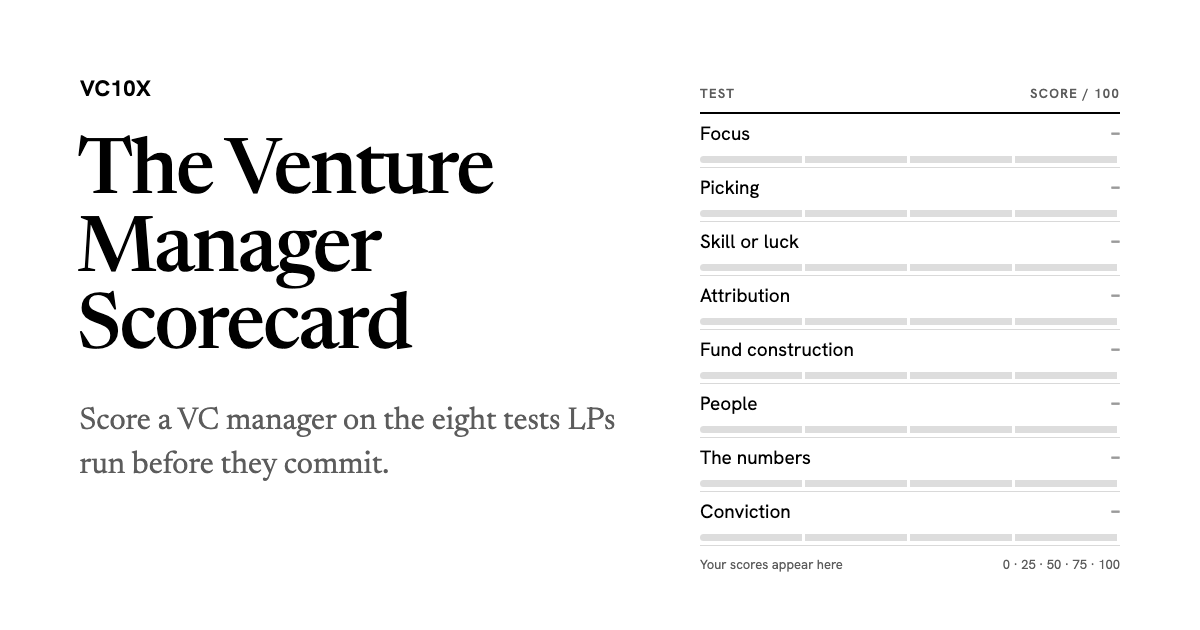
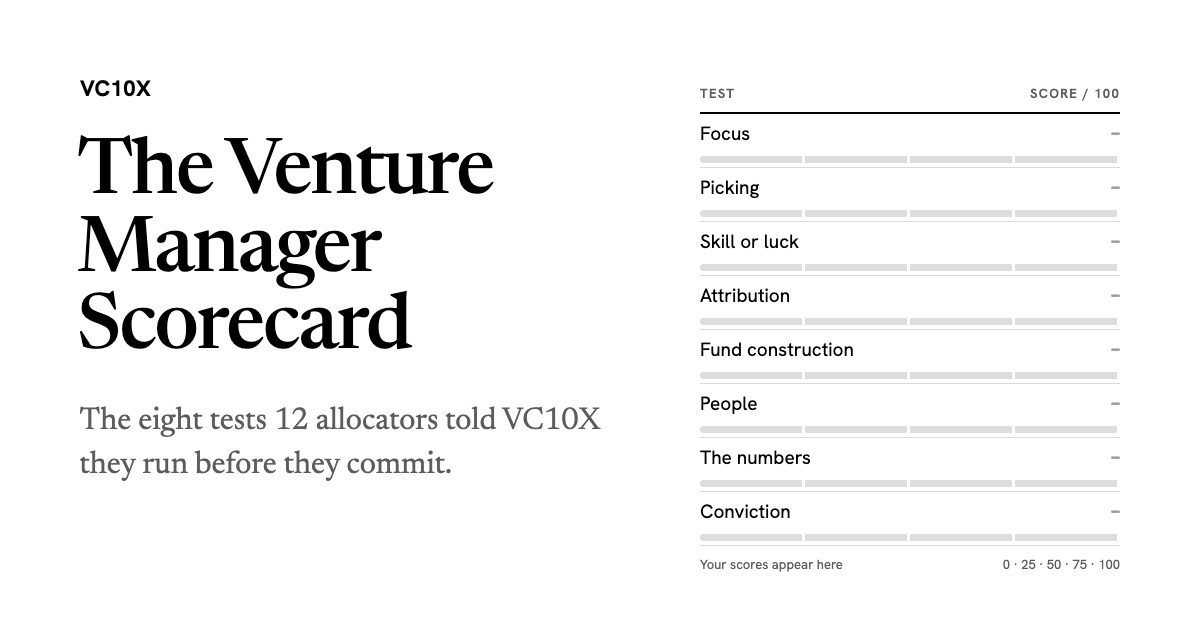
Lead scorecard and playbook copy with the twelve allocator interviews behind the tests

Changed region(s): [[0.0617, 0.6333, 0.5242, 0.6937], [0.0617, 0.7238, 0.37, 0.754]]

diff --git a/manager-scorecard/index.html b/manager-scorecard/index.html
@@ -3,20 +3,20 @@
 <head>
 <meta charset="utf-8">
 <meta name="viewport" content="width=device-width, initial-scale=1, viewport-fit=cover">
-<title>Venture Manager Scorecard: Evaluate a VC Fund Manager Like an LP | VC10X</title>
-<meta name="description" content="Score a venture capital fund manager on the eight tests LPs run before they commit, or score your own fund the way an LP would. Free, 24 questions, with the questions to ask next and side-by-side manager comparison.">
+<title>Venture Manager Scorecard: Evaluate a VC Fund Manager the Way 12 LPs Do | VC10X</title>
+<meta name="description" content="Score a venture capital fund manager on the eight tests twelve allocators described on the VC10X podcast, or score your own fund the way an LP would. Free, 24 questions, with the questions to ask next and side-by-side manager comparison.">
 <link rel="canonical" href="https://vc10x.com/manager-scorecard/">
 <meta property="og:type" content="website">
 <meta property="og:site_name" content="VC10X">
 <meta property="og:url" content="https://vc10x.com/manager-scorecard/">
 <meta property="og:title" content="The Venture Manager Scorecard">
-<meta property="og:description" content="Score a VC manager on the eight tests LPs run before they commit, or score your own fund the way an LP would.">
+<meta property="og:description" content="The eight tests twelve allocators told VC10X they run before committing to a venture fund, as a free scorecard. Score a manager, or your own fund.">
 <meta property="og:image" content="https://vc10x.com/manager-scorecard/og.png">
 <meta property="og:image:width" content="1200">
 <meta property="og:image:height" content="630">
 <meta name="twitter:card" content="summary_large_image">
 <meta name="twitter:title" content="The Venture Manager Scorecard">
-<meta name="twitter:description" content="The eight tests LPs run on a venture manager, as a free scorecard.">
+<meta name="twitter:description" content="The eight tests twelve allocators told VC10X they run on a venture manager, as a free scorecard.">
 <meta name="twitter:image" content="https://vc10x.com/manager-scorecard/og.png">
 <link rel="icon" type="image/png" sizes="32x32" href="/favicon-32.png">
 <link rel="apple-touch-icon" href="/apple-touch-icon.png">
@@ -158,6 +158,8 @@ footer{margin-top:64px;font-size:13px;color:var(--muted)}
 .mode span{display:block;color:var(--muted);font-size:15px;margin-top:2px}
 .opt.unk{background:transparent;border-style:dashed;color:var(--muted)}
 .cov{margin-top:14px;color:var(--muted);font-size:15px}
+.source{margin-top:14px;color:var(--muted);font-size:15px;max-width:36em}
+.source a{color:var(--ink);text-underline-offset:3px}
 .plan .sub{margin-top:14px;font-size:12px;letter-spacing:.08em;text-transform:uppercase;font-weight:600}
 .plan .more{margin-top:10px;font-size:15px}
 .cmpwrap{overflow-x:auto;margin-top:16px}
@@ -416,8 +418,9 @@ function intro(){
   <div class="intro-grid">
     <div>
       <h1>The Venture Manager Scorecard</h1>
-      <p class="lede">Score a venture fund manager on the eight tests allocators run before they commit, or score your own fund the way an LP would. You get a score for each test, the red flags, and exactly what to ask or fix next.</p>
-      <div class="facts"><span><b>24 questions</b>, about 6 minutes</span><span><b>8 tests</b> scored</span><span>Answers stay in your browser</span></div>
+      <p class="lede">Score a venture fund manager the way allocators actually do, or score your own fund before they do.</p>
+      <p class="source">The eight tests come from on-record VC10X conversations with twelve LPs, from fund-of-funds partners to family office investment heads, about how they decide who gets their money. They're the backbone of the playbook <a href="/playbooks/how-lps-evaluate-venture-fund-managers/">How LPs Evaluate Venture Fund Managers</a>.</p>
+      <div class="facts"><span><b>12 allocators</b> on the record</span><span><b>8 tests</b> they run</span><span><b>24 questions</b>, about 6 minutes</span><span>Answers stay private</span></div>
       ${started ? `<button class="btn" id="cont">Continue${S.name ? " scoring " + esc(S.name) : ""}</button> <button class="link" id="reset" style="margin-left:18px">Start over</button>` : `
       <fieldset class="modes"><legend>Which side of the table are you on?</legend>
         <button class="mode" data-m="lp"><b>Score a manager</b><span>I'm an LP, family office, endowment or adviser evaluating a fund.</span></button>

diff --git a/playbooks/how-lps-evaluate-venture-fund-managers/index.html b/playbooks/how-lps-evaluate-venture-fund-managers/index.html
@@ -271,7 +271,7 @@ ol.stages .src{font-size:14px;color:var(--muted);margin-top:4px}
             </table>
           </div>
           <div class="howto">
-            <div><b>If you're an LP</b>Use the tests as a diligence framework. The <a href="#question-bank">question bank</a> turns them into 40 questions, and the <a href="/manager-scorecard/">Manager Scorecard</a> scores and compares managers.</div>
+            <div><b>If you're an LP</b>Use the tests as a diligence framework. The <a href="#question-bank">question bank</a> turns them into 40 questions, and the <a href="/manager-scorecard/">Manager Scorecard</a> turns them into a score you can compare across managers.</div>
             <div><b>If you're raising a fund</b>Each test ends with what to prepare. <a href="/manager-scorecard/">Score your own fund</a> the way an LP would before your first meeting, not after your first no.</div>
           </div>
         </section>
@@ -692,6 +692,12 @@ ol.stages .src{font-size:14px;color:var(--muted);margin-top:4px}
           </div>
         </section>
 
+        <aside class="grab" style="padding:22px 26px">
+          <h2 style="margin-bottom:6px">Run all eight tests on a manager</h2>
+          <p class="muted">The <a href="/manager-scorecard/">Venture Manager Scorecard</a> turns the tests twelve allocators shared in this playbook into a 24-question score. Score a manager you're diligencing and compare them side by side, or score your own fund before LPs do.</p>
+          <p style="margin-top:14px"><a class="btn" href="/manager-scorecard/" style="text-decoration:none">Open the scorecard</a></p>
+        </aside>
+
         <section id="re-ups">
           <p class="tnum">After the first fund</p>
           <h2>How do LPs decide whether to re-up?</h2>
@@ -827,7 +833,7 @@ ol.stages .src{font-size:14px;color:var(--muted);margin-top:4px}
           <h2>Score yourself before LPs do</h2>
           <p>Free tools that apply the same lens allocators use.</p>
           <div class="related">
-            <a href="/manager-scorecard/"><b>Venture Manager Scorecard</b><span>Score a manager, or your own fund, on the eight tests</span></a>
+            <a href="/manager-scorecard/"><b>Venture Manager Scorecard</b><span>This playbook's eight tests as a scorecard: score a manager, or your own fund</span></a>
             <a href="/fundraising-audit/"><b>Fundraising Readiness Audit</b><span>Score your fund the way LPs do, in minutes</span></a>
             <a href="/lp-fit-audit/"><b>LP Fit Audit</b><span>See which LP types fit your fund today</span></a>
             <a href="/fund-economics-calculator/"><b>Fund Economics Calculator</b><span>Fees, carry and GP commit, modeled</span></a>

diff --git a/index.html b/index.html
@@ -310,7 +310,7 @@ footer a{margin-right:16px}
         <p class="desc">Allocation frameworks, liquidity under stress, and where experienced allocators are still finding returns others aren't.</p>
         <ul class="res">
           <li class="rhead" aria-hidden="true"><span>Start with</span><span>Format</span></li>
-          <li><a href="/manager-scorecard/"><span class="t">Venture Manager Scorecard&nbsp;<span class="go" aria-hidden="true">→</span></span><span class="tag">Audit · 6 min</span><span class="d">Score a manager on the eight tests LPs run, and compare managers side by side.</span></a></li>
+          <li><a href="/manager-scorecard/"><span class="t">Venture Manager Scorecard&nbsp;<span class="go" aria-hidden="true">→</span></span><span class="tag">Audit · 6 min</span><span class="d">The eight tests 12 allocators told us they run, as a scorecard. Compare managers side by side.</span></a></li>
           <li><a href="/commitment-pacing-model/"><span class="t">Commitment Pacing Model&nbsp;<span class="go" aria-hidden="true">→</span></span><span class="tag">Calculator</span><span class="d">How much to commit each year to reach your private markets target.</span></a></li>
           <li><a href="/liquidity-stress-test/"><span class="t">Liquidity Stress Test&nbsp;<span class="go" aria-hidden="true">→</span></span><span class="tag">Calculator</span><span class="d">Can you meet capital calls after a market shock, and how far do you drift?</span></a></li>
           <li><a href="#latest"><span class="t">Recent issues&nbsp;<span class="go" aria-hidden="true">→</span></span><span class="tag">Newsletter</span><span class="d">How CIOs and family offices are positioning portfolios now.</span></a></li>
